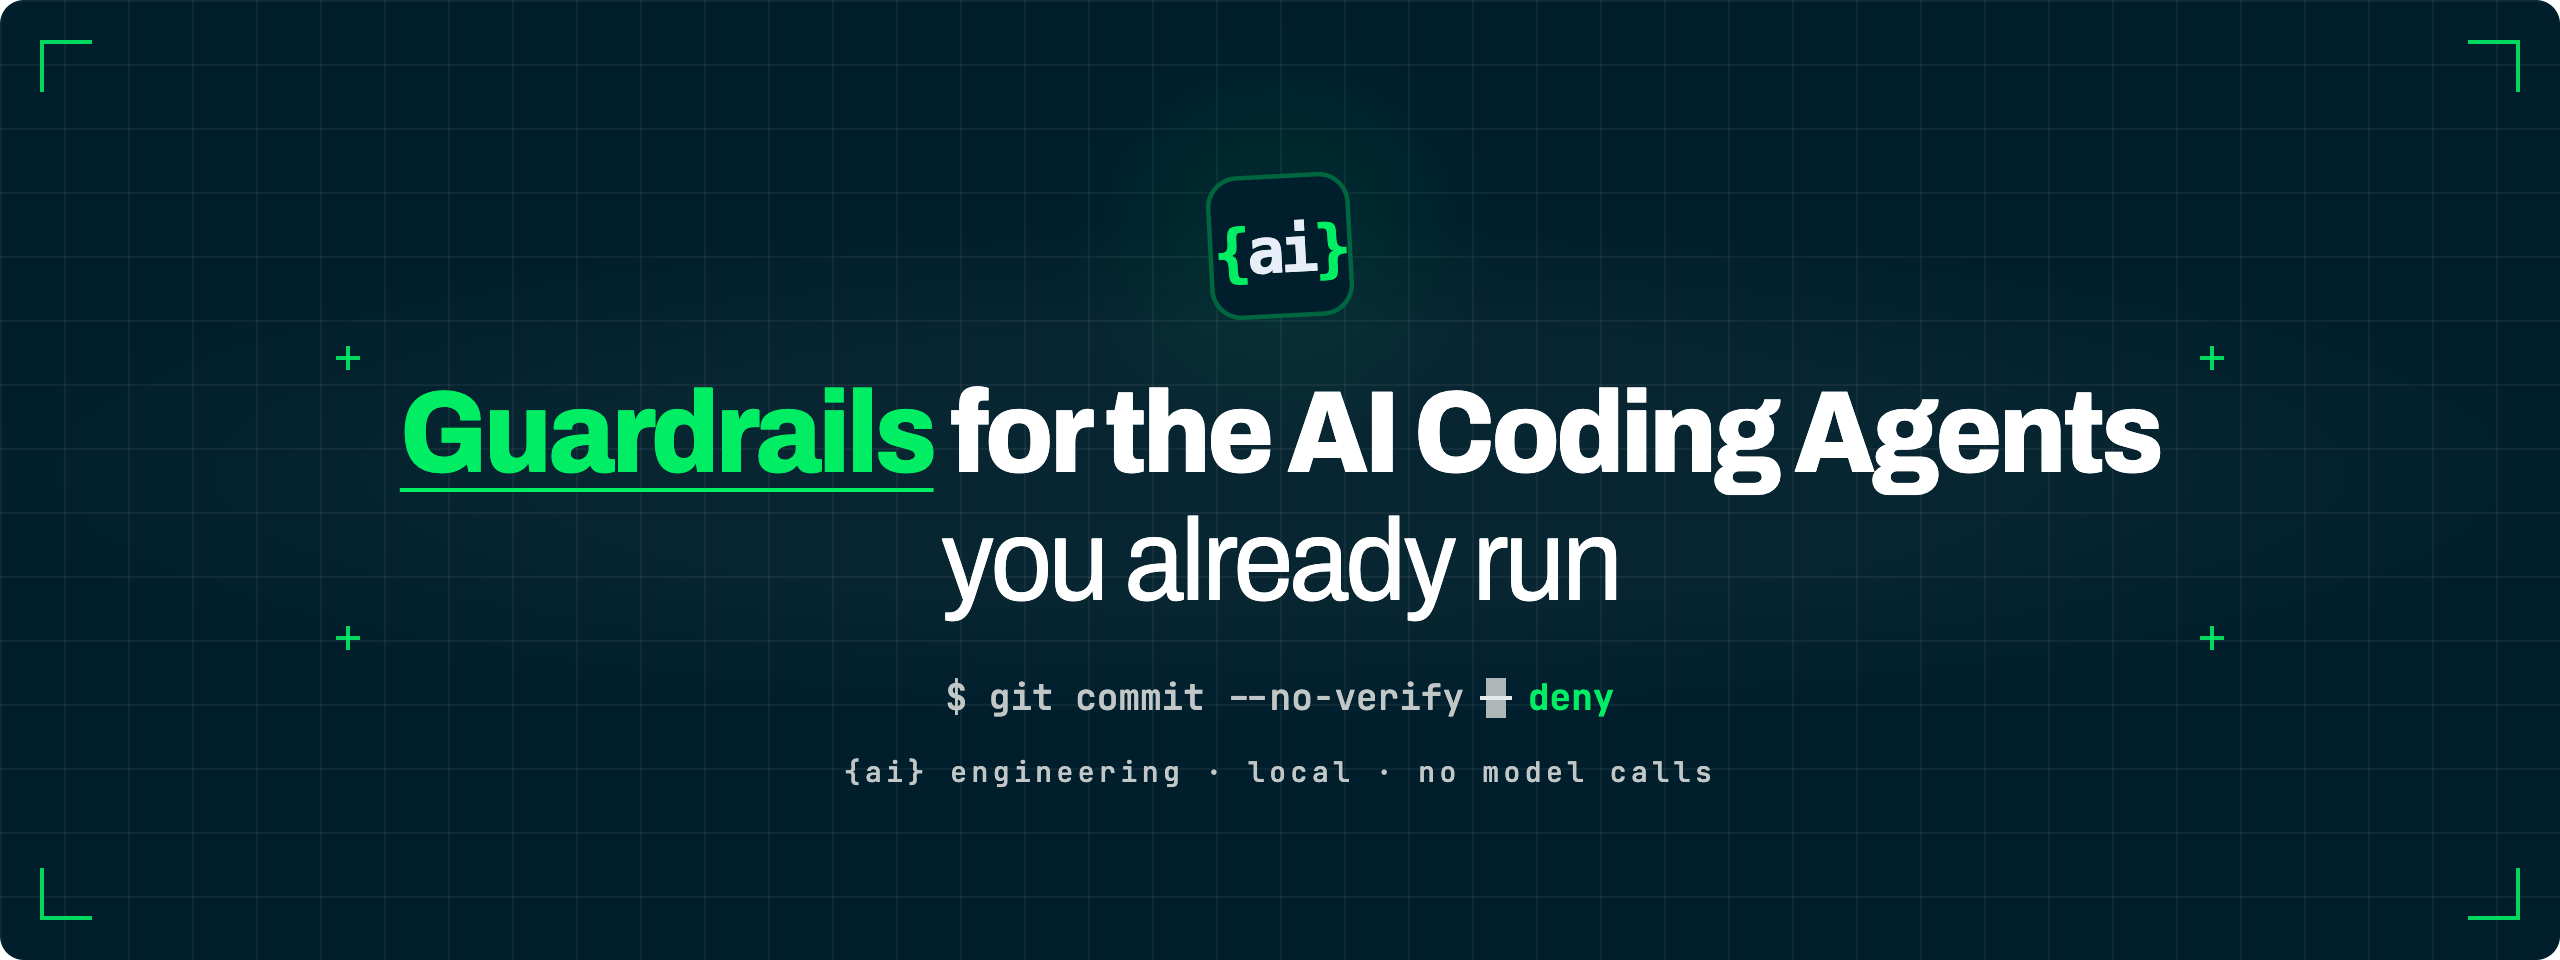
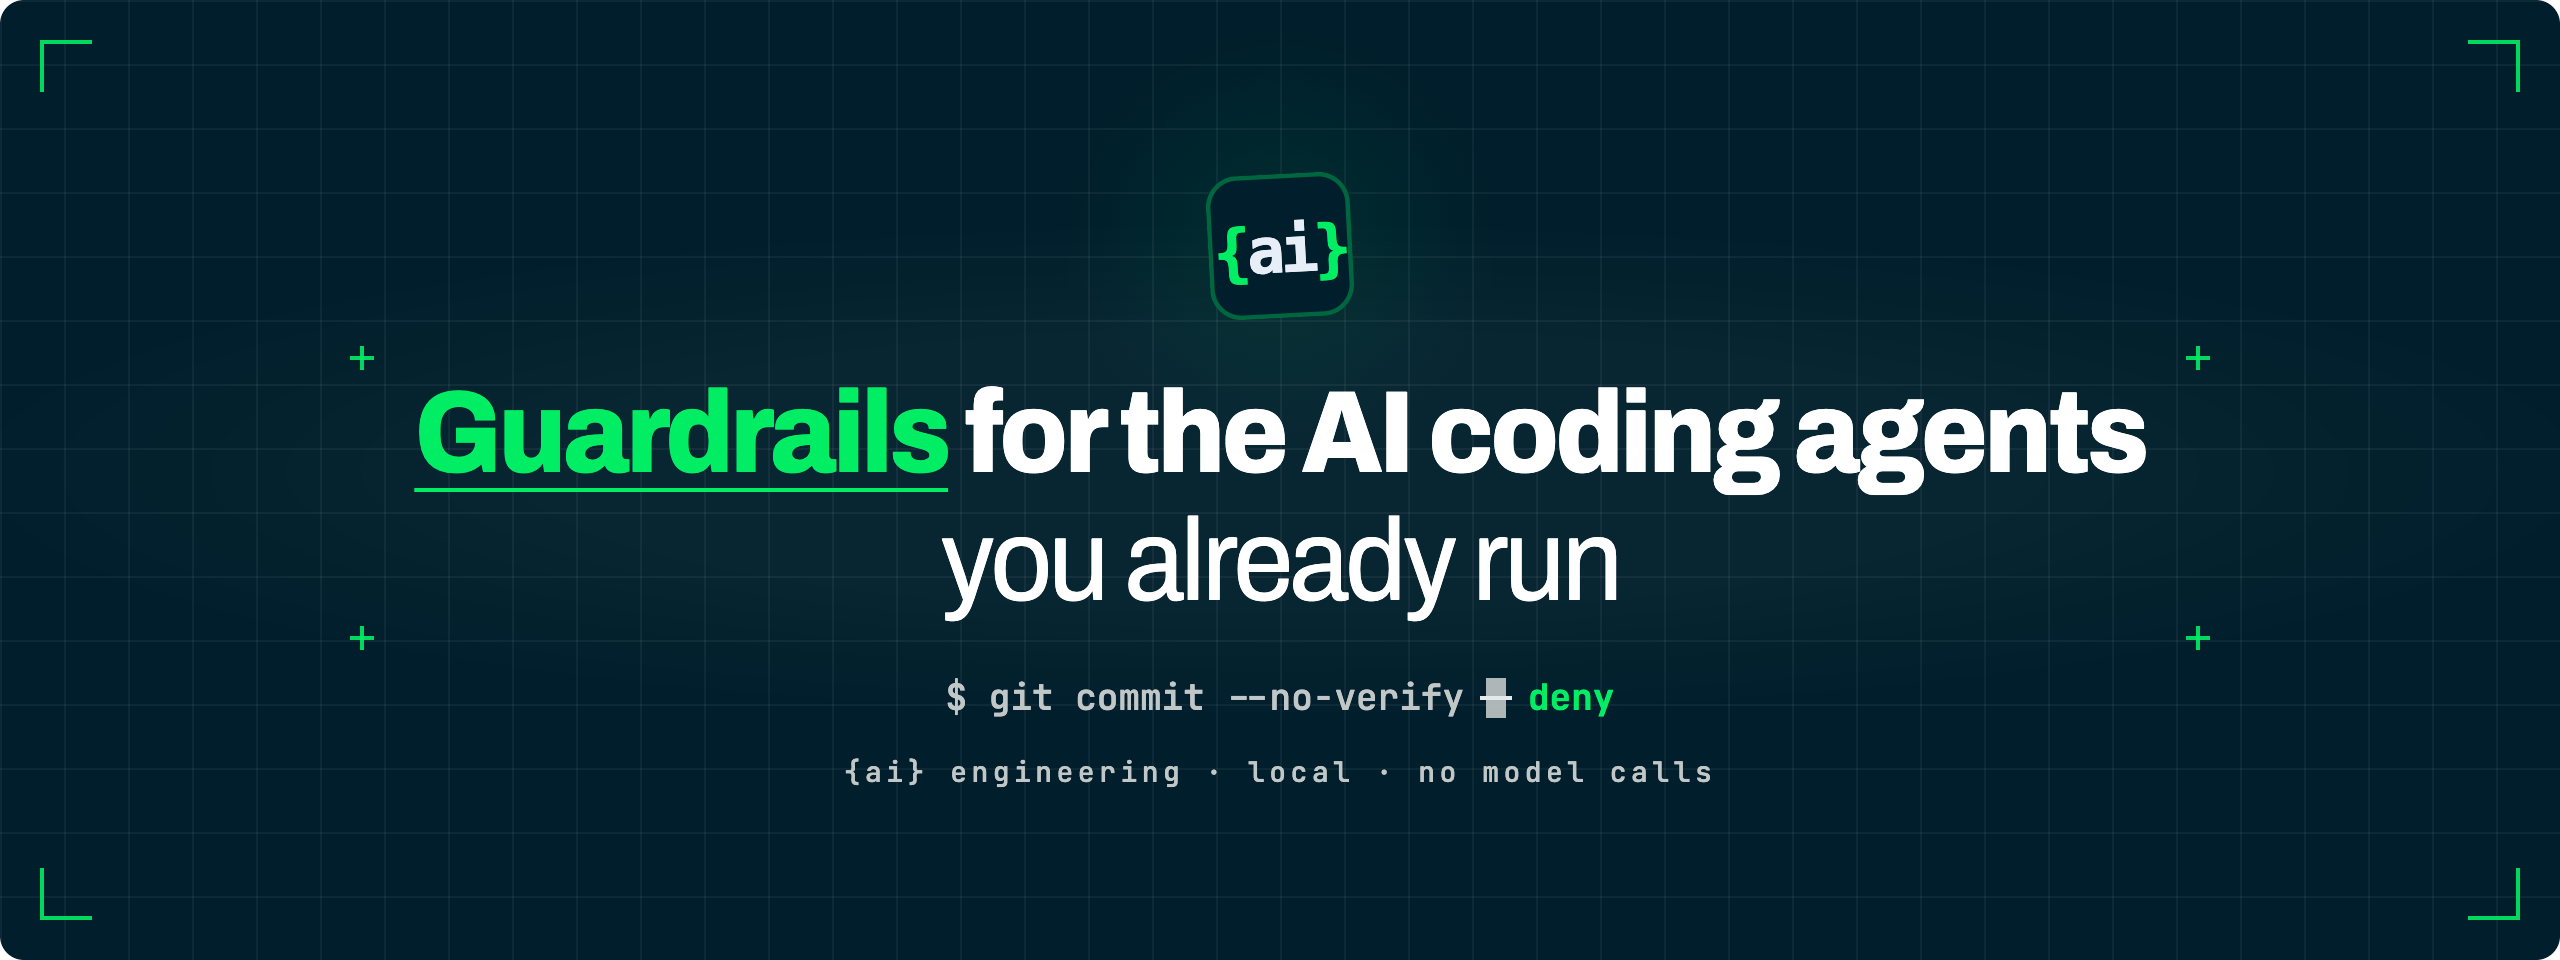
docs: one product sentence for package and hero
The package description, the GitHub About text and the README hero each
said something different about the same product, so no two readers met
the same claim. The hero sentence wins, in sentence case: "Guardrails for
the AI coding agents you already run".

"prove every run" is dropped: it promised a property the tool does not
measure. The hero image is regenerated from the same claim string, so the
art and the alt text cannot drift apart.

GitHub About is set by hand after merge, not from here.

Receipt-Id: 0974668c

Changed region(s): [[0.1562, 0.4062, 0.5938, 0.5], [0.6875, 0.4062, 0.8438, 0.5312], [0.625, 0.4375, 0.6562, 0.4688]]

diff --git a/scripts/readme-assets.ts b/scripts/readme-assets.ts
@@ -64,7 +64,7 @@ export const BUTTONS: readonly Button[] = [
 /** The hero copy and canvas: tilted brand/mark.svg on a soft glow, two-weight claim, refused-call line, and mono ledger. */
 export const HERO = {
   wordmark: "{ai} engineering",
-  claim: "Guardrails for the AI Coding Agents you already run",
+  claim: "Guardrails for the AI coding agents you already run",
   accent: "Guardrails",
   lightFrom: "you already run",
   command: "git commit --no-verify",

diff --git a/README.md b/README.md
@@ -2,7 +2,7 @@
 
 <h1><picture>
   <source media="(prefers-color-scheme: dark)" srcset=".github/assets/readme/hero-dark.webp">
-  <img src=".github/assets/readme/hero-light.webp" alt="{ai} engineering. Guardrails for the AI Coding Agents you already run" width="100%">
+  <img src=".github/assets/readme/hero-light.webp" alt="{ai} engineering. Guardrails for the AI coding agents you already run" width="100%">
 </picture></h1>
 
 <b>Turn any repo into a governed workspace.</b><br/>
